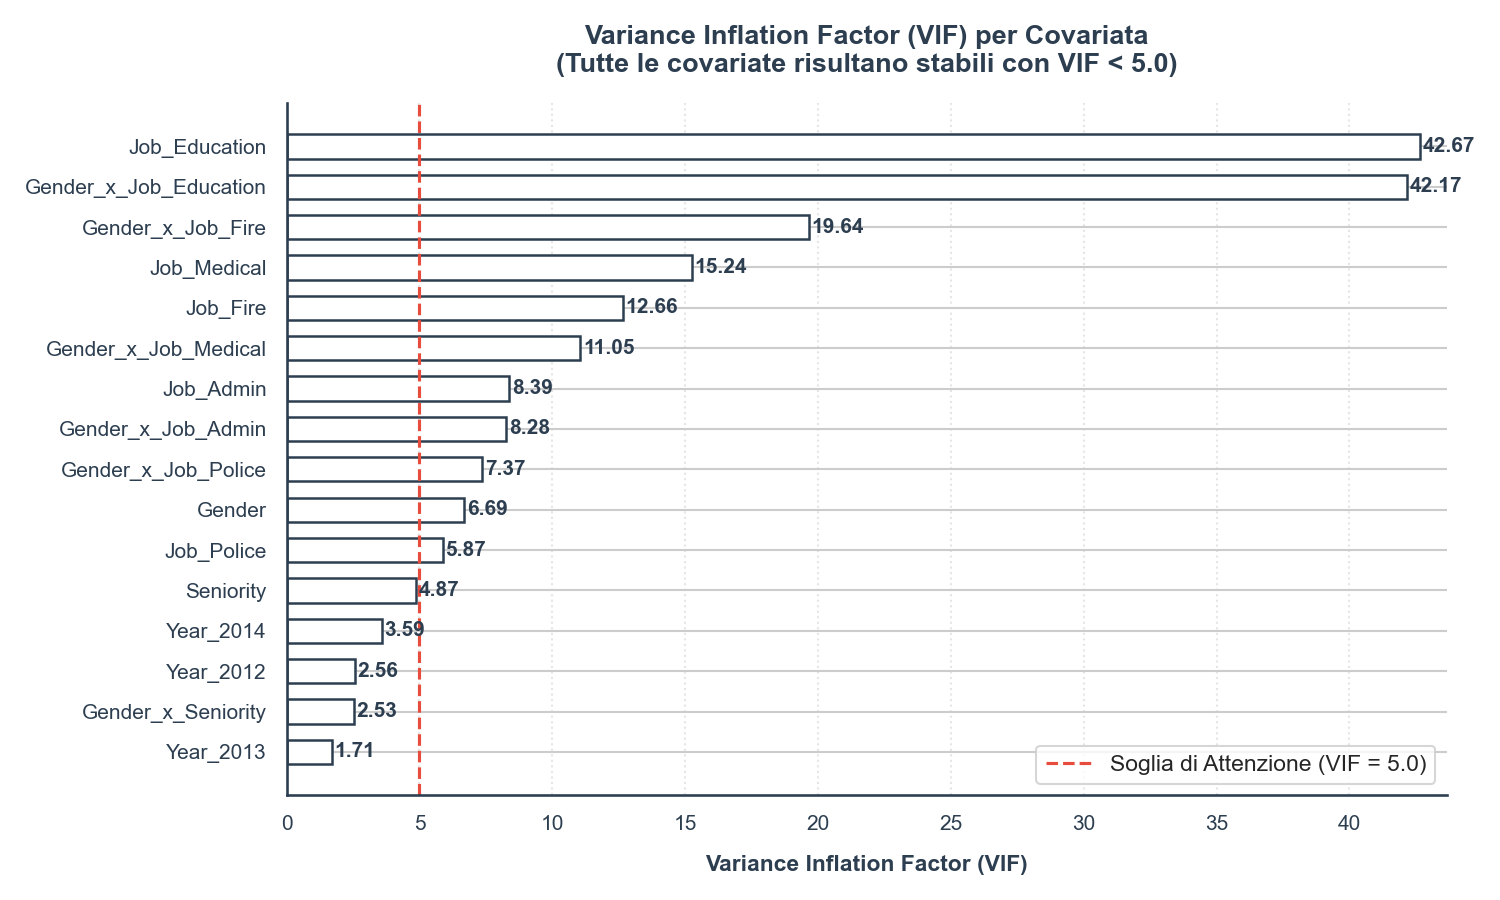
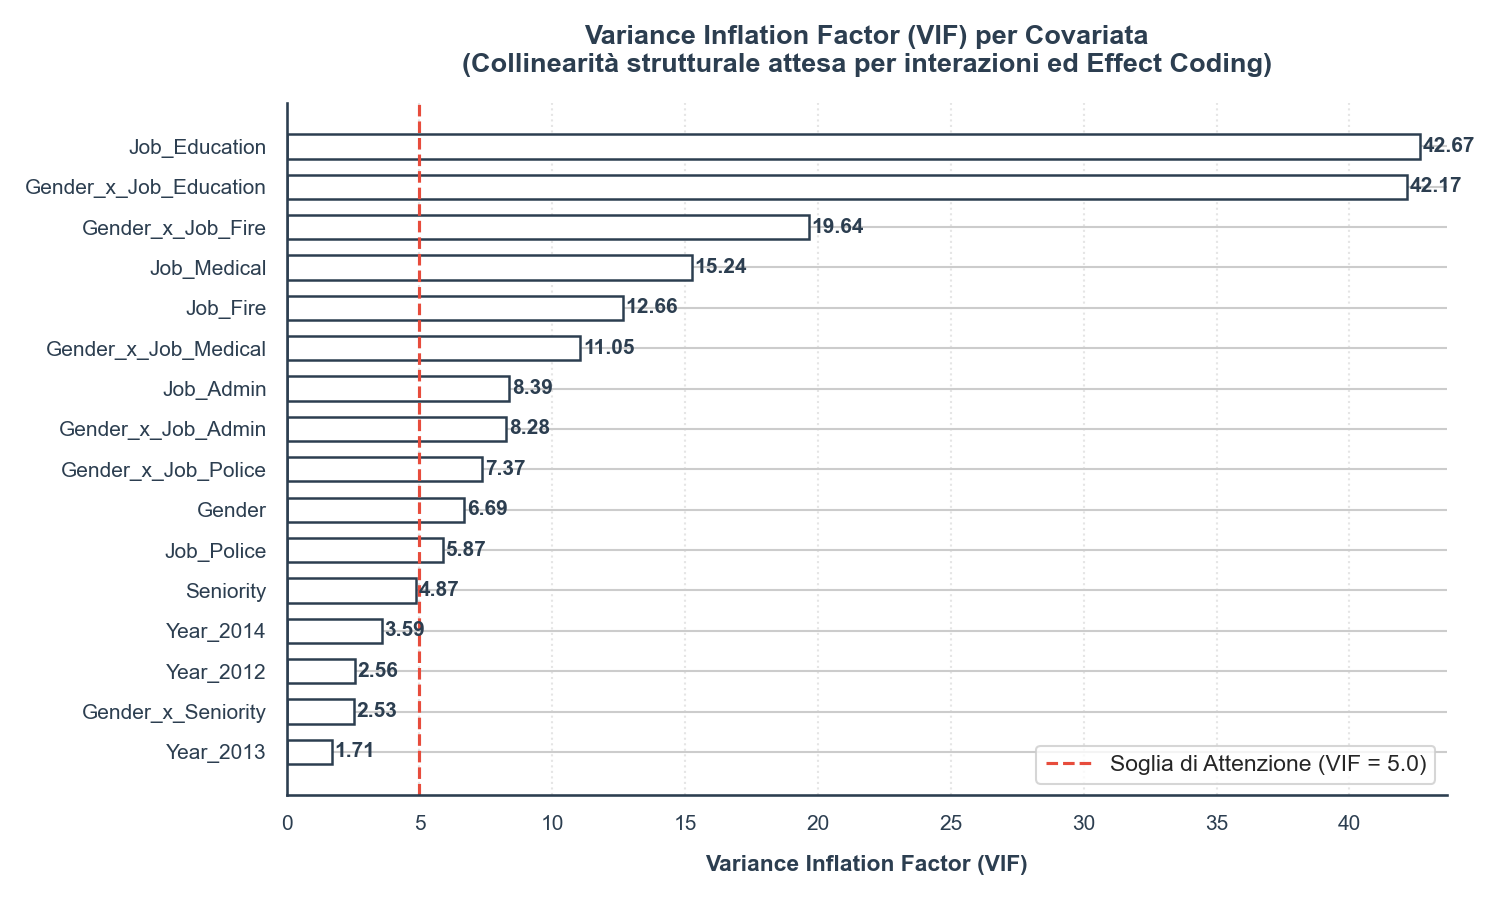
Corretto il sottotitolo del VIF plot spiegando che la collinearità è strutturale e attesa

Changed region(s): [[0.3067, 0.0622, 0.8587, 0.0933]]

diff --git a/gender_analysis.py b/gender_analysis.py
@@ -952,7 +952,7 @@ def main():
     
     # Customize axes and title
     ax.set_xlabel('Variance Inflation Factor (VIF)', fontsize=11, color='#2c3e50', fontweight='bold', labelpad=10)
-    ax.set_title('Variance Inflation Factor (VIF) per Covariata\n(Tutte le covariate risultano stabili con VIF < 5.0)', fontsize=13, color='#2c3e50', fontweight='bold', pad=15)
+    ax.set_title('Variance Inflation Factor (VIF) per Covariata\n(Collinearità strutturale attesa per interazioni ed Effect Coding)', fontsize=13, color='#2c3e50', fontweight='bold', pad=15)
     
     # Set limit to 6 to give some breathing room for annotations and show the threshold line clearly
     max_vif = vif_plot_df["VIF"].max()